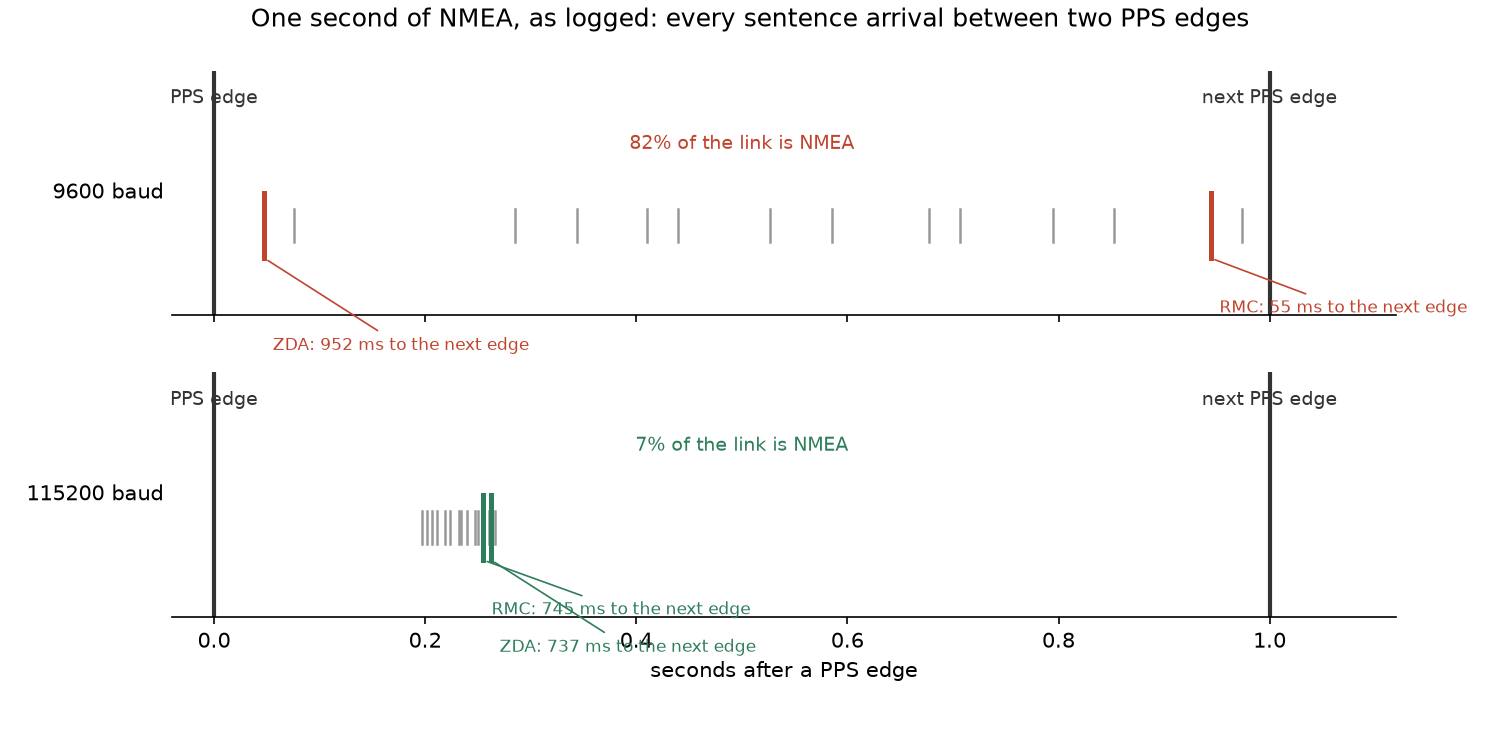
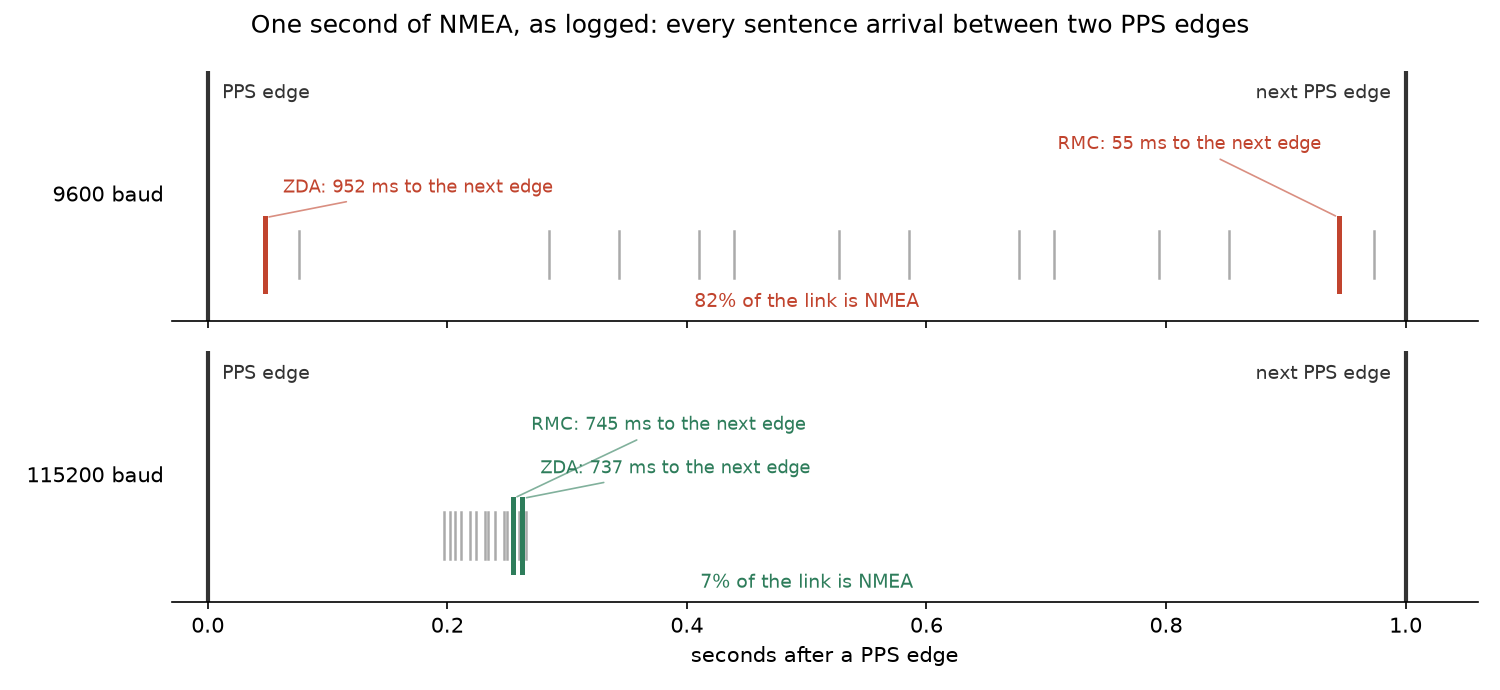
docs: rewrite the pairing report so the figures carry the argument
Three problems with the prose, all of the same kind: it announced what it was
about to do instead of doing it.

**The title stated the conclusion** ("1PPS と NMEA の対応付けが 1 秒ずれる"), which
tells the reader the ending before the first paragraph. The sibling report opens
straight into prose with no heading at all; this one now does the same.

**The opening was a table of contents** ("この記録では〜を扱う"). Removed. The first
paragraphs now explain the pairing mechanism itself, and the failure follows from
it rather than being promised in advance.

**The figures were cited after the fact.** Both appeared as confirmation of
something the prose had already asserted ("図の下段がそれで", "以下である"), which
wastes them: the shape *is* the argument. They now arrive at the point where the
question is open, and the text reads them.

That reordering also fixed a hole. The report previously stated that switching to
ZDA did not help, then explained the bandwidth separately, leaving the connection
implicit. Now the burst figure comes first and the ZDA result falls out of it:
ZDA sits at the end of the burst, so it arrives later than RMC, and picking the
specification-correct sentence changes nothing if it still lands across the
boundary.

Same treatment for "直らない理由は、ログの時刻を並べれば見える" and its relatives —
announcing an explanation and then giving it, where giving it was enough.

Figure legibility: labels sat on the PPS edge lines, annotations ran off the
[…]

diff --git a/docs/report/pps-nmea-pairing/logs/pairing/plot_pairing.py b/docs/report/pps-nmea-pairing/logs/pairing/plot_pairing.py
@@ -96,8 +96,12 @@ def occupancy(sentences, span, baud):
 
 
 def fig_timeline(slow, fast, path: Path):
-    """代表的な 1 秒に、実測のセンテンス到着をそのまま並べる。"""
-    fig, axes = plt.subplots(2, 1, figsize=(10, 5.0), sharex=True)
+    """代表的な 1 秒に、実測のセンテンス到着をそのまま並べる。
+
+    注釈は全部 axes の内側に置く。外に出すと x 軸ラベルや目盛と重なるし、右端の
+    センテンスでは図からはみ出す。位置に応じて揃えを変えて、線やラベル同士の衝突も避ける。
+    """
+    fig, axes = plt.subplots(2, 1, figsize=(10, 4.6), sharex=True)
     for ax, (label, items, colour, note) in zip(
         axes,
         [
@@ -105,50 +109,57 @@ def fig_timeline(slow, fast, path: Path):
             ("115200 baud", fast, FAST_C, "7% of the link is NMEA"),
         ],
     ):
-        for x in (0.0, 1.0):
+        for x, text, ha, dx in (
+            (0.0, "PPS edge", "left", 0.012),
+            (1.0, "next PPS edge", "right", -0.012),
+        ):
             ax.axvline(x, color="#333", lw=2)
-        ax.text(0.0, 1.30, "PPS edge", ha="center", fontsize=9, color="#333")
-        ax.text(1.0, 1.30, "next PPS edge", ha="center", fontsize=9, color="#333")
+            # 線の上に文字を乗せない。線から少しずらして、外向きでなく内向きに逃がす。
+            ax.text(x + dx, 1.42, text, ha=ha, va="top", fontsize=9, color="#333")
 
         for off, kind in items:
             hot = kind in ("RMC", "ZDA")
             ax.plot(
                 [off, off],
-                [0.35, 0.75] if hot else [0.45, 0.65],
-                color=colour if hot else "#999",
+                [0.18, 0.62] if hot else [0.26, 0.54],
+                color=colour if hot else "#aaa",
                 lw=2.4 if hot else 1.2,
             )
-        # 時刻センテンスだけ、次エッジまでの残りを添える
-        for kind, dy in (("RMC", -26), ("ZDA", -44)):
+
+        # 時刻センテンスの注釈は上へ、二本を縦にずらして重ならないようにする。
+        for kind, y in (("RMC", 1.06), ("ZDA", 0.80)):
             hit = [o for o, k in items if k == kind]
             if not hit:
                 continue
             off = hit[0]
+            # 右端に近ければ右揃えにして、図の外へ出さない。
+            ha = "right" if off > 0.62 else "left"
+            dx = -0.015 if ha == "right" else 0.015
             ax.annotate(
                 f"{kind}: {(1.0 - off) * 1000:.0f} ms to the next edge",
-                (off, 0.35),
-                textcoords="offset points",
-                xytext=(4, dy),
-                ha="left",
-                fontsize=8,
+                xy=(off, 0.62),
+                xytext=(off + dx, y),
+                ha=ha,
+                va="center",
+                fontsize=8.5,
                 color=colour,
-                arrowprops=dict(arrowstyle="-", color=colour, lw=0.8),
+                arrowprops=dict(arrowstyle="-", color=colour, lw=0.8, alpha=0.6),
             )
-        ax.text(0.5, 1.02, note, ha="center", fontsize=9, color=colour)
+
+        ax.text(0.5, 0.06, note, ha="center", va="bottom", fontsize=9, color=colour)
         ax.set_ylim(0, 1.5)
         ax.set_yticks([])
         ax.set_ylabel(label, rotation=0, ha="right", va="center", fontsize=10)
         for side in ("top", "right", "left"):
             ax.spines[side].set_visible(False)
 
-    axes[-1].set_xlim(-0.04, 1.12)
+    axes[-1].set_xlim(-0.03, 1.06)
     axes[-1].set_xlabel("seconds after a PPS edge")
     fig.suptitle(
         "One second of NMEA, as logged: every sentence arrival between two PPS edges",
         fontsize=12,
-        y=0.99,
     )
-    fig.tight_layout(rect=(0, 0.06, 1, 1))
+    fig.tight_layout()
     fig.savefig(path, dpi=150)
     print(f"wrote {path}")
 

diff --git a/docs/report/pps-nmea-pairing/README.md b/docs/report/pps-nmea-pairing/README.md
@@ -1,17 +1,9 @@
-# 1PPS と NMEA の対応付けが 1 秒ずれる
-
 GNSS 受信機の 1PPS は、立ち上がりエッジが UTC の秒境界を指す。
 ただしエッジ自体は「今が何秒か」を言わない。
-そこで受信機が UART に流す NMEA センテンスから秒を読み、エッジと対応付けて UTC のエポックを立てる。
-この対応付けを間違えると、規律された時刻が 1 秒まるごとずれる。
+秒の名前は、受信機が UART に流す NMEA センテンスから読む。
+つまり UTC のエポックは、エッジとセンテンスを対応付けて初めて立つ。
 
-この記録では、その 1 秒ずれが実際に起きていたことと、原因が「どのセンテンスを使うか」と「そのセンテンスがいつ届くか」の二つに分かれていたこと、後者が帯域の問題だったことを扱う。
-
-使ったのは秋月の [AE-GNSS-EXTANT](https://akizukidenshi.com/catalog/g/g113849/)(MediaTek MT3333)と Raspberry Pi Pico で、[precision-ladder](../precision-ladder/README.md) と同じ構成である。
-
-## エッジに秒の名前を付ける
-
-`rp-pps` の対応付けは単純である。
+`rp-pps` の対応付けは素朴である。
 PPS エッジが来たらその時刻を保持し、次に時刻センテンスが来たら、保持したエッジにそのセンテンスの秒を貼る。
 
 ```text
@@ -19,31 +11,32 @@ PPS エッジ ──保持──> 保留中のエッジ
 時刻センテンス ────> 保留中のエッジに秒を貼り、UTC エポックが立つ
 ```
 
-エッジとセンテンスは 1 対 1 に対応する前提である。
 受信機はパルスごとに時刻を報告するので、順番に食べていけば合う。
-
 合わなくなるのは、センテンスが**次の**エッジより後に届いたときである。
 そのときセンテンスは保留中のエッジ(すでに次のもの)に貼られ、エポックは 1 秒進む。
 遅れが 1 秒に満たなくても、境界を跨ぐかどうかだけで結果は 1 秒単位で飛ぶ。
 
-## 位相を測っても気付けない
+これが実際に起きていた。
+使った受信機は秋月の [AE-GNSS-EXTANT](https://akizukidenshi.com/catalog/g/g113849/)(MediaTek MT3333)で、構成は [precision-ladder](../precision-ladder/README.md) と同じである。
 
-この不具合は、このプロジェクトのそれまでの検証をすべてすり抜けていた。
-理由は単純で、既存の検証はどれも**位相**を見ているからである。
+## 位相が合っていても秒の名前は違いうる
+
+この不具合は、それまでの検証をすべてすり抜けていた。
+どの検証も**位相**を見ていたからである。
 
 規律された 1PPS 出力は、GPS-R の 1PPS に対して数十 ns で合っている。
 オシロで両者を重ねれば、確かに合っている。
 しかしそのエッジに貼られた秒の名前が一つずれていても、オシロには何も映らない。
 波形は正しく、ラベルだけが間違っている。
 
-外部の時計と突き合わせて初めて見える種類の誤りである。
-今回それが見えたのは、この GPSDO を NTP サーバにして、NTP 同期済みのホストと比べたからだった。
+見えるようになったのは、この GPSDO を NTP サーバに仕立てて、NTP 同期済みのホストと比べたときだった。
+外部の時計と突き合わせない限り、この種の誤りは出てこない。
 
-## どちらのセンテンスが時刻を運ぶのか
+## 時刻を運ぶのはどのセンテンスか
 
 `rp-pps` は RMC で対応付けていた。
 RMC は **Recommended Minimum Navigation Information** の略で、NMEA 0183 の現行版 v4.11 でもその展開のままである。
-航法源が最低限出すべきもの、つまり位置と進路と速度、そしてそれらがいつのものかという時刻である。
+航法源が最低限出すべきもの、つまり位置と進路と速度、そしてそれらがいつのものかという時刻を載せる。
 時刻が入っているのは航法に時刻が要るからで、時刻を述べるために設計された文ではない。
 
 パルスに対して定義されているのは **ZDA** のほうである。
@@ -52,41 +45,41 @@ MT3333 の NMEA 仕様はメッセージ一覧で ZDA にだけ "PPS timing mess
 > Outputs the time associated with the current 1PPS pulse.
 > Each message is output within a few hundred ms after the 1PPS pulse is output and tells the time of the pulse that just occurred.
 
-であれば ZDA を使えばよい、と考えて切り替えた。
-それだけでは直らなかった。
-ZDA でも規律 UTC はきっちり 1 秒遅れたままだった。
+ZDA に切り替えた。
+規律 UTC は 1 秒遅れたままだった。
 
-## センテンスは 1 秒のどこに届くのか
+## 1 秒のうち、どこにセンテンスが届くか
 
-直らない理由は、ログの時刻を並べれば見える。
+ログに残った到着時刻を、エッジからエッジまでの 1 秒に並べる。
 
 ![一秒ぶんの NMEA 到着](fig-burst-timing.png)
 
-上段が 9600 bps である。
-14 本のセンテンスが 1 秒のあいだに散らばっていて、RMC は次のエッジの 55 ms 手前に届いている。
-ZDA はさらに後ろにいるので、この秒では前の周期ぶんが冒頭に写っている。
+上段の 9600 bps では、14 本のセンテンスが 1 秒ぜんたいに散らばっている。
+RMC は次のエッジの 55 ms 手前、ZDA はさらに後ろなので、この秒には前の周期ぶんが冒頭に写っている。
+どちらの時刻センテンスも、境界のすぐ近くにいる。
 
-なぜこう散らばるのかは、帯域を数えるとわかる。
+散らばるのは帯域が足りないからである。
 この受信機は毎秒 14 本、788 文字を出す。
 1 文字 10 bit として 7884 bit/s であり、**9600 bps の 82% を NMEA が占めている**。
 短いバーストのあとに長い静寂があるのではなく、UART がほぼ埋まっている。
 センテンス間の最大の空きは 380 ms しかない。
 
-つまり時刻センテンスは、どれを選んでも次のエッジのすぐ近くに来る。
-ZDA がバーストの終端にいるぶん、RMC より事情は悪い。
+ZDA に替えても直らなかったのは、これで説明がつく。
+ZDA はバーストの終端にいるので、RMC より後に届く。
+仕様のうえで正しいセンテンスを選んでも、届く時刻が境界を跨いでしまえば同じことになる。
 
-## 余裕がどれだけ残っているか
+下段の 115200 bps では、同じ 14 本が 69 ms に収まっている。
+次のエッジまで 745 ms 空いていて、境界は視野の外にある。
 
-次のエッジまでの残りを、188 本ぶん測った分布が下図である。
+## 境界をどれだけの余裕で避けているか
+
+次のエッジまでの残りを 188 本ぶん測ると、9600 bps の分布は二つの山に割れる。
 
 ![次エッジまでの余裕の分布](fig-margin.png)
 
-9600 bps(赤)は二つの山に割れている。
 0 ms の壁に張り付いた山と、1000 ms 側の山である。
 後者はエッジを跨いだあとに届いたぶんで、同じ量を反対側から見ている。
-つまりこの分布は境界そのものをまたいでいる。
-
-数値でも同じことが出る。
+分布そのものが境界をまたいでいる。
 
 | ボーレート | センテンス | 平均 | 標準偏差 | 最小 |
 |---|---|---:|---:|---:|
@@ -94,26 +87,23 @@ ZDA がバーストの終端にいるぶん、RMC より事情は悪い。
 | 9600 | ZDA | 866 ms | 218 ms | **1 ms** |
 | 115200 | RMC | 749 ms | 26 ms | 718 ms |
 
-最小 1 ms から 2 ms というのは、対応付けがコイン投げになっているということである。
+最小 1 ms から 2 ms は、対応付けがコイン投げになっているということである。
 衛星が増えて GSV が伸びれば、バーストは後ろに延びて境界を越える。
-どちらの association を設定しても、飛ぶときは飛ぶ。
 
 `rp-pps` には NMEA の秒とエッジの関係を ±1 秒補正する設定があり、その doc は「このライブラリ最大の footgun」と書いている。
-9600 bps ではこの補正を入れると時刻が合った。
-合ったが、直ってはいなかった。
+9600 bps でこの補正を入れると時刻は合った。
+合ったが、直ってはいない。
 コイン投げのどちら側を正解と呼ぶかを入れ替えただけである。
 
 ## 帯域を空けて余裕を作る
 
 センテンスの選択でも補正定数でもなく、余裕そのものを作る。
-`PMTK251` で受信機を 115200 bps に上げると、同じ 14 本が 69 ms に収まる。
-図の下段がそれで、全部が 200 ms から 270 ms のあいだに固まり、次のエッジまで 745 ms 空いている。
-最悪ケースの余裕は 2 ms から 718 ms になった。
+`PMTK251` で受信機を 115200 bps に上げると、最悪ケースの余裕は 2 ms から 718 ms になった。
 
-これが再ラベリングではなく実際の修正であることは、必要な補正が変わったことでわかる。
-外部の NTP 同期済みホストと突き合わせた結果が以下である。
+補正が要らなくなったことが、これが再ラベリングでない証拠になる。
+外部の NTP 同期済みホストと突き合わせた結果を並べる。
 測定は probe 経由で行った。
-ネットワークを通さないので、経路の遅延を時計のずれと取り違える余地がない(probe 自身のポーリング遅延は残るが、これは後述のとおり 0.15 秒程度で、1 秒の判定には効かない)。
+ネットワークを通さないので、経路の遅延を時計のずれと取り違える余地がない(probe 自身のポーリング遅延は残るが、後述のとおり 0.15 秒程度で、1 秒の判定には効かない)。
 
 | 条件 | ホスト − firmware |
 |---|---:|
@@ -123,31 +113,29 @@ ZDA がバーストの終端にいるぶん、RMC より事情は悪い。
 | 115200、+1 秒補正 | −0.85 s |
 
 残差の +0.15 秒前後は probe のポーリング遅延であって、時計のずれではない。
-バースト長だけを変えたのに必要な association が反転したのは、バーストのタイミングが対応付けを決めていた場合にしか起こらない。
+バースト長だけを変えたのに必要な補正が反転している。
+これはバーストのタイミングが対応付けを決めていた場合にしか起こらない。
 余裕さえあれば、仕様どおりの組み合わせ、つまり ZDA と「そのパルスの時刻」という解釈が、補正なしで成立する。
 
-## ボーレートを上げるのに要ったこと
+## 確かめる以外に知る方法がない
 
 `PMTK251` を投げて UART を切り替えるだけでは動かなかった。
 最初の実装は 250 ms 待って切り替え、framing エラーしか出なくなった。
 
-理由が二つあった。
-
-**受信機は Pico よりはるかに遅く起動する**。
+受信機は Pico よりはるかに遅く起動する。
 喋り始める前に設定を投げても受け付けない。
 既存の `mt3333.rs` が PMTK 送出前に 2000 ms 待っていたのは、同じことを踏んだ跡だったのだろう。
 
-**レート設定は firmware の再フラッシュを跨いで残る**。
-仕様 §2.3.14 によれば `PMTK251` が既定に戻るのは full cold start か standby のときだけである。
+もう一つ、レート設定は firmware の再フラッシュを跨いで残る。
+仕様 §2.3.14 によれば、`PMTK251` が既定に戻るのは full cold start か standby のときだけである。
 再フラッシュ後もモジュールは前回のレートのままなので、9600 で開いて沈黙を見た firmware は「受信機が死んだ」と判断してしまう。
 
-そこでコマンドの前後で port を probe する形にした。
 `PMTK251` には ACK がない。
-旧レートで返事を出してから切り替える設計はあり得るので、ACK が不可能なわけではない。
-この受信機が返さないというだけである。
+旧レートで返事を出してから切り替える設計はあり得るので、ACK が不可能なわけではなく、この受信機が返さないというだけである。
 仕様は切替に要する時間も規定していない。
-つまり成否も完了時刻も、こちらから確かめる以外に知る方法がない。
+成否も完了時刻も、こちらから確かめる以外に知る方法がない。
 
+そこでコマンドの前後で port を probe する形にした。
 副産物として、コマンド後の待ち時間が critical でなくなった。
 短すぎても、後段の probe がモジュールの実際に落ち着いたレートを見つけて追従する。
 一つのモジュールを一日測って調整した定数を持たずに済む。
@@ -155,7 +143,7 @@ ZDA がバーストの終端にいるぶん、RMC より事情は悪い。
 ## 残っていること
 
 有線での受信は測れていない。
-今回ホスト側で見たオフセットの大半は WiFi 経由の broadcast 配送によるもので、AP が DTIM まで溜める分が乗っている。
+ホスト側で見たオフセットの大半は WiFi 経由の broadcast 配送によるもので、AP が DTIM まで溜める分が乗っている。
 有線の受信機なら別の数字になるはずだが、手元に有線 NIC がなく確かめていない。
 
 `PMTK314` でセンテンスを削る手も残っている。
@@ -163,9 +151,9 @@ ZDA がバーストの終端にいるぶん、RMC より事情は悪い。
 今回は試していない。
 
 対応付けの機構そのものを、到着時刻に依存しない形にする道もある。
-現在は「保留中のエッジ」に貼る後入れ先出しなので、センテンスが 1 本落ちると復帰する代わりに、遅れると跨ぐ。
+現在は「保留中のエッジ」に貼る後入れ先出しなので、センテンスが 1 本落ちると次で復帰する代わりに、遅れると跨ぐ。
 先入れ先出しにすれば遅れには強くなるが、脱落に弱くなる。
-どちらが良いかは、この受信機で脱落と遅延のどちらが起きやすいかを測ってから決めるべきで、まだ測っていない。
+この受信機で脱落と遅延のどちらが起きやすいかを測ってから決めるべきで、まだ測っていない。
 
 ## 図の作り方
 
